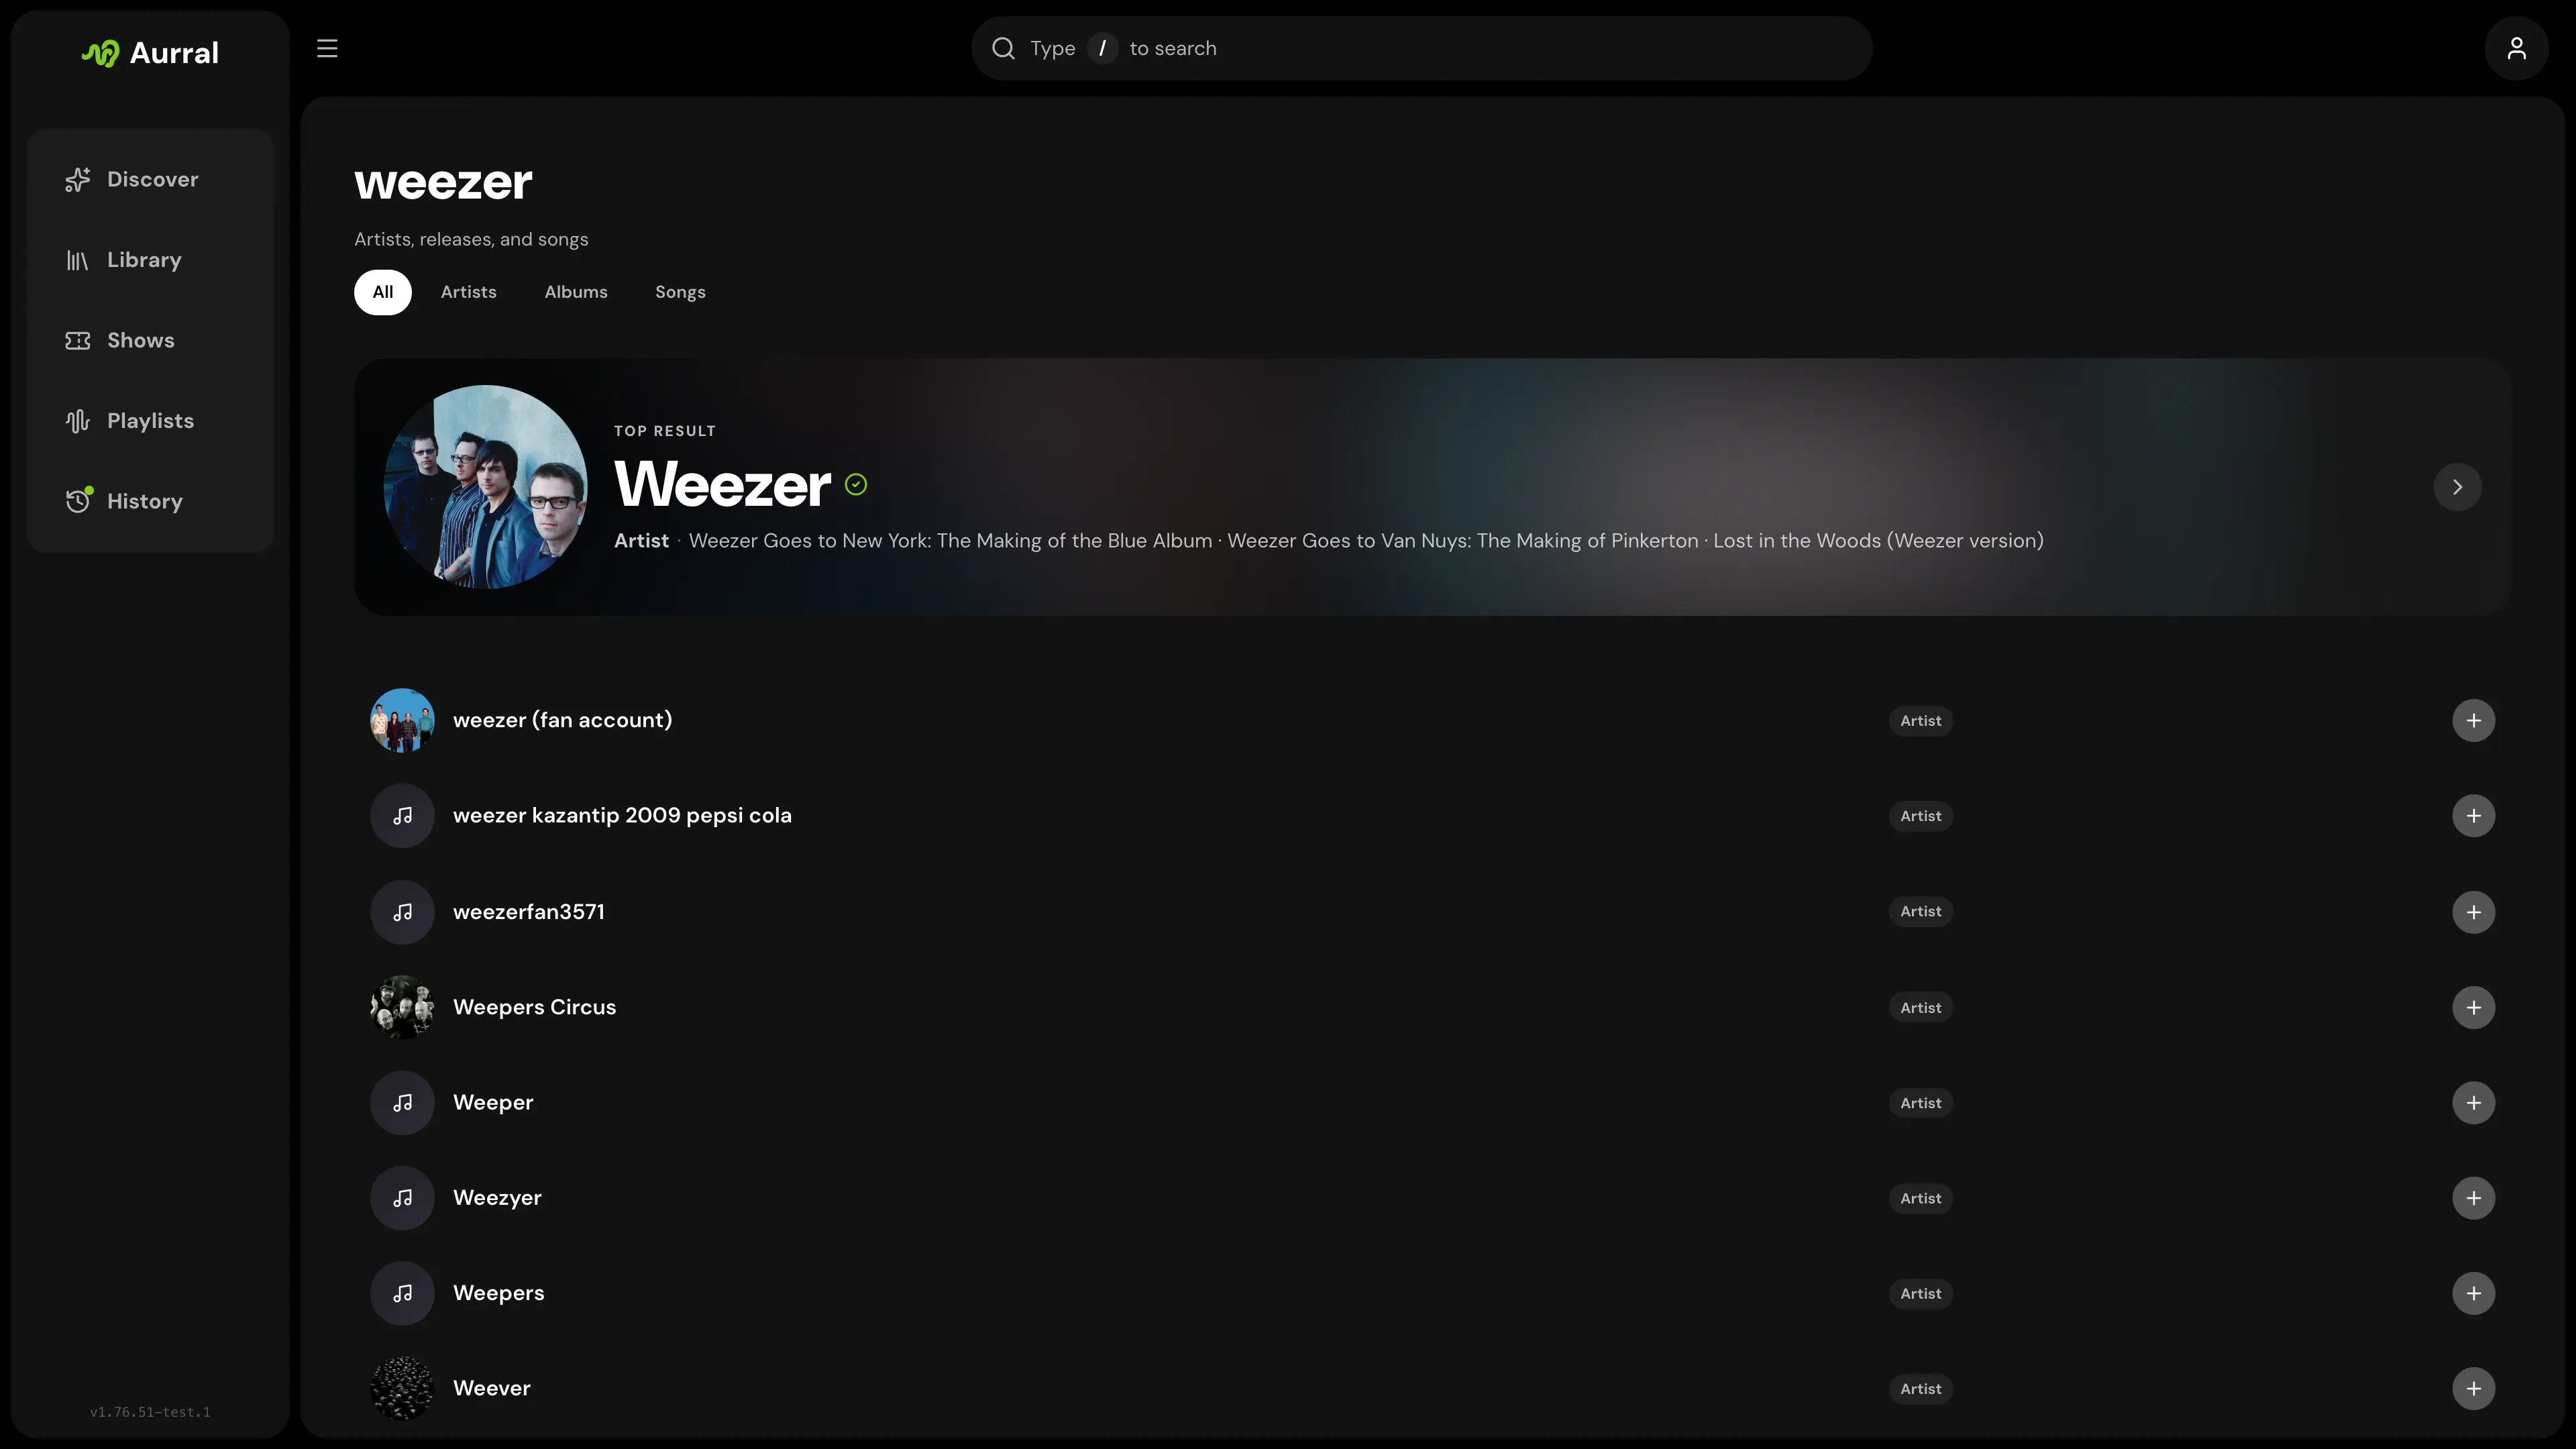
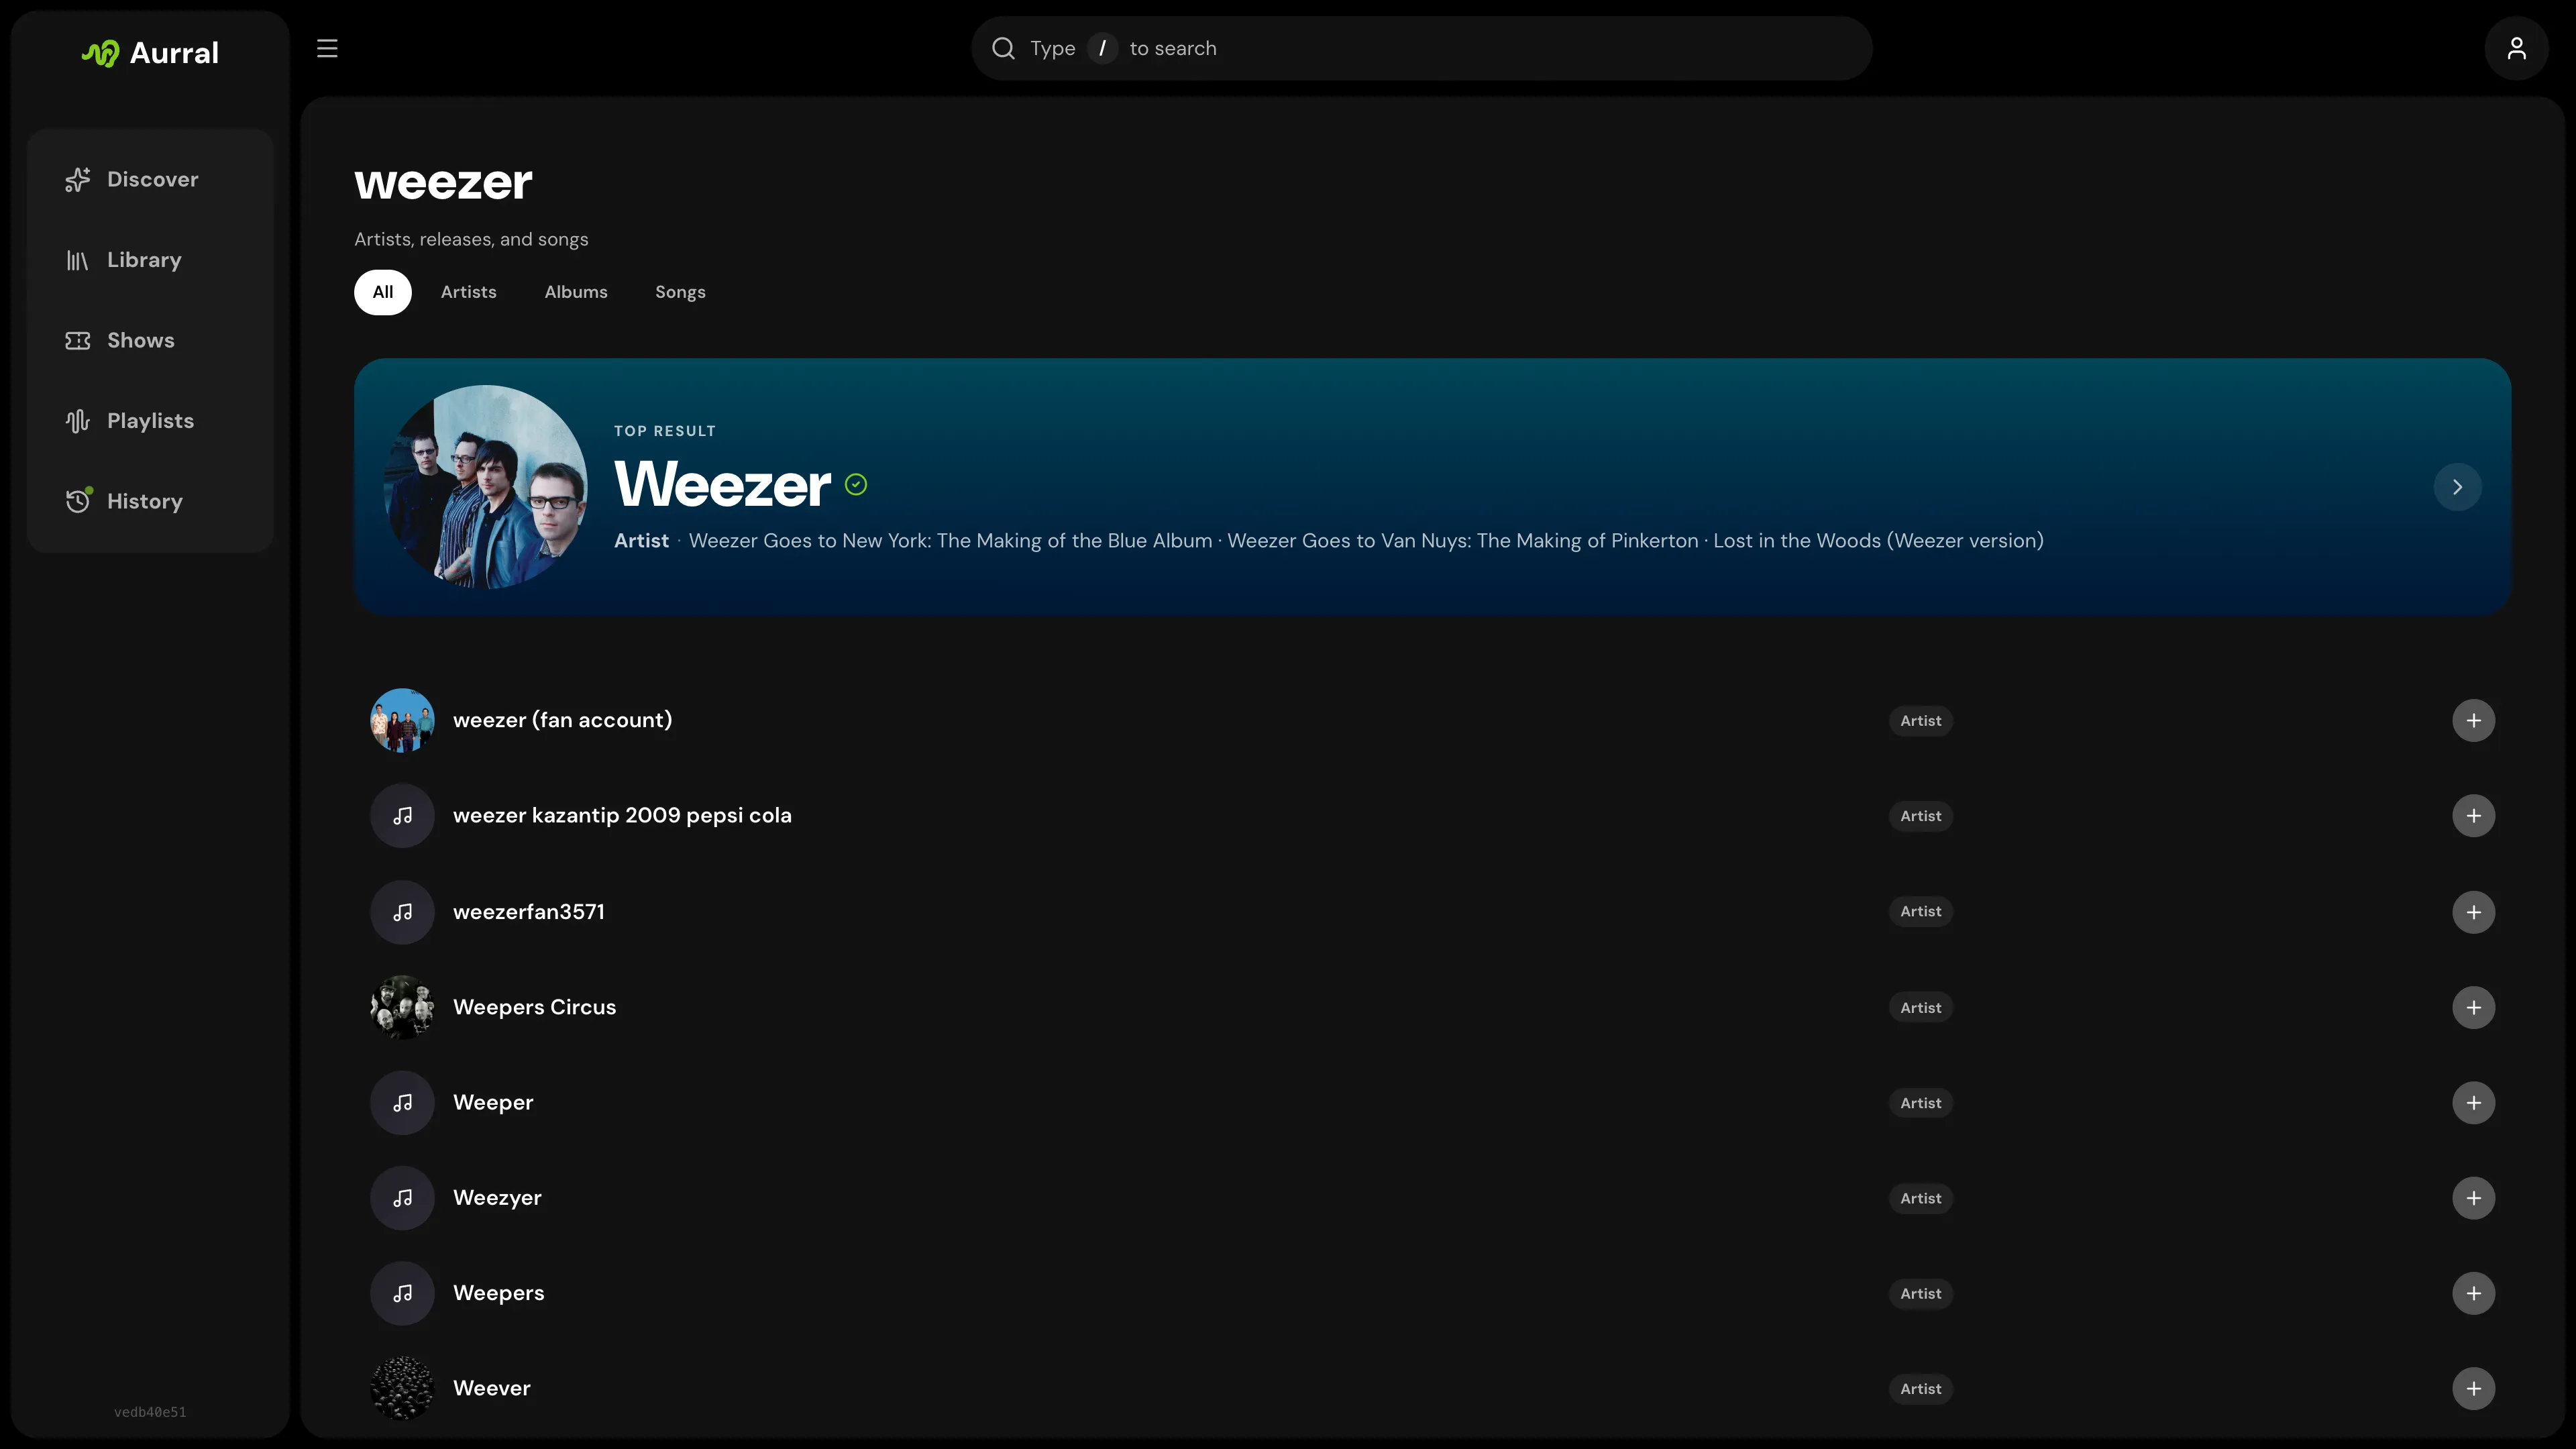
images update

Changed region(s): [[0.125, 0.2481, 1.0, 0.4343]]

diff --git a/README.md b/README.md
@@ -38,7 +38,7 @@ Aurral is a self-hosted music discovery app for the Lidarr stack. Find new artis
 </p>
 
 <p align="center">
-  <img src="frontend/images/discover2.webp" width="205" alt="Aurral personalized recommendations" />
+  <img src="frontend/images/artist.webp" width="205" alt="Aurral personalized recommendations" />
   <img src="frontend/images/search.webp" width="205" alt="Aurral search results" />
   <img src="frontend/images/playlists.webp" width="205" alt="Aurral playlists" />
   <img src="frontend/images/history.webp" width="205" alt="Aurral history timeline" />